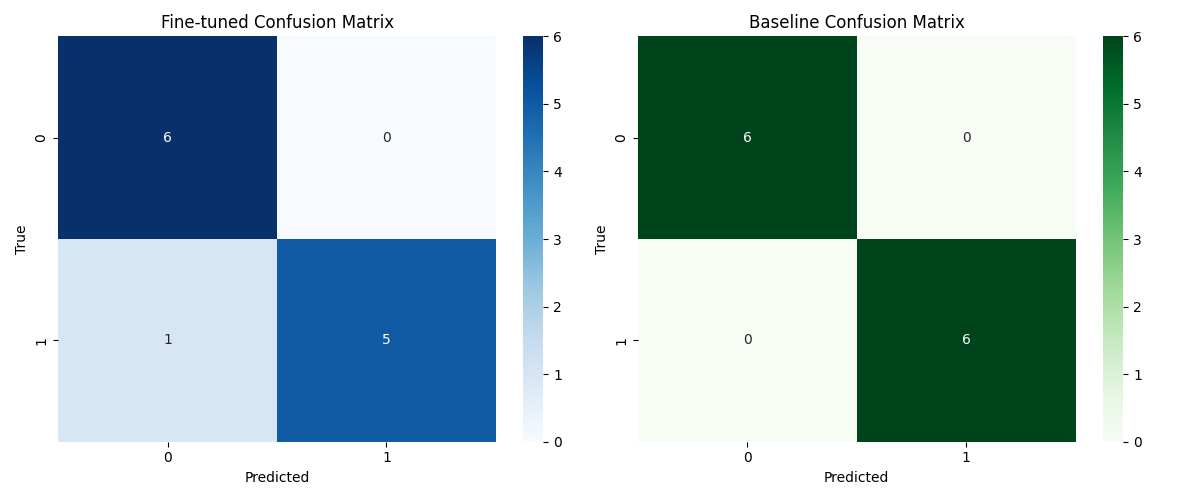
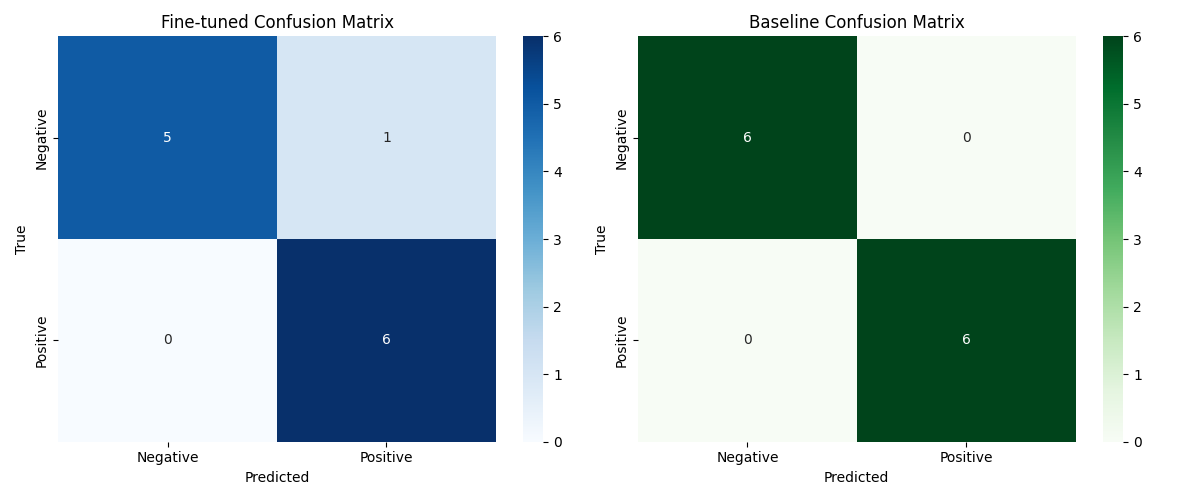
fix comments

diff --git a/model_artifacts.py b/model_artifacts.py
@@ -25,16 +25,19 @@ def is_lfs_pointer(path):
     return header == LFS_POINTER_PREFIX
 
 
-def _weights_path():
-    if WEIGHTS_FILE.is_file():
-        return WEIGHTS_FILE
-    if PYTORCH_WEIGHTS_FILE.is_file():
-        return PYTORCH_WEIGHTS_FILE
+def _weights_path(model_dir=None):
+    model_dir = Path(model_dir) if model_dir is not None else FINE_TUNED_MODEL_DIR
+    safetensors = model_dir / "model.safetensors"
+    pytorch_bin = model_dir / "pytorch_model.bin"
+    if safetensors.is_file():
+        return safetensors
+    if pytorch_bin.is_file():
+        return pytorch_bin
     return None
 
 
-def has_valid_weights():
-    path = _weights_path()
+def has_valid_weights(model_dir=None):
+    path = _weights_path(model_dir)
     if path is None:
         return False
     if is_lfs_pointer(path):
@@ -42,10 +45,11 @@ def has_valid_weights():
     return path.stat().st_size >= MIN_WEIGHTS_BYTES
 
 
-def require_fine_tuned_model():
+def require_fine_tuned_model(model_dir=None):
     """Проверяет, что fine-tuned чекпоинт содержит веса модели."""
-    if not has_valid_weights():
-        path = _weights_path()
+    model_dir = Path(model_dir) if model_dir is not None else FINE_TUNED_MODEL_DIR
+    if not has_valid_weights(model_dir):
+        path = _weights_path(model_dir)
         if path is not None and is_lfs_pointer(path):
             reason = (
                 "обнаружен Git LFS pointer вместо весов. "
@@ -56,10 +60,10 @@ def require_fine_tuned_model():
 
         raise FileNotFoundError(
             f"Fine-tuned модель не готова к загрузке ({reason}).\n"
-            f"Ожидается model.safetensors или pytorch_model.bin в {FINE_TUNED_MODEL_DIR}.\n"
+            f"Ожидается model.safetensors или pytorch_model.bin в {model_dir}.\n"
             "Сначала обучите и сохраните модель: python day_5/fine_tuning.py"
         )
-    return FINE_TUNED_MODEL_DIR
+    return model_dir
 
 
 def has_baseline_artifacts():

diff --git a/day_6/inference_comparison.py b/day_6/inference_comparison.py
@@ -10,7 +10,7 @@ import matplotlib.pyplot as plt
 import seaborn as sns
 
 sys.path.insert(0, str(Path(__file__).resolve().parent.parent))
-from sentiment_data import load_sentiment_dataset
+from sentiment_data import load_sentiment_dataset, get_target_names
 from model_artifacts import (
     require_fine_tuned_model,
     require_baseline_artifacts,
@@ -136,6 +136,7 @@ def build_confusion_matrices(model_ft, tokenizer_ft, baseline_model, baseline_fe
 
     test_texts = test_df['text'].tolist()
     test_labels = test_df['label'].tolist()
+    target_names = get_target_names(test_labels)
 
     print("Получение предсказаний для тестового набора...")
     preds_ft_all = predict_fine_tuned(test_texts, model_ft, tokenizer_ft, device)
@@ -151,12 +152,18 @@ def build_confusion_matrices(model_ft, tokenizer_ft, baseline_model, baseline_fe
 
     fig, (ax1, ax2) = plt.subplots(1, 2, figsize=(12, 5))
 
-    sns.heatmap(cm_ft, annot=True, fmt='d', ax=ax1, cmap='Blues')
+    sns.heatmap(
+        cm_ft, annot=True, fmt='d', ax=ax1, cmap='Blues',
+        xticklabels=target_names, yticklabels=target_names,
+    )
     ax1.set_title('Fine-tuned Confusion Matrix')
     ax1.set_xlabel('Predicted')
     ax1.set_ylabel('True')
 
-    sns.heatmap(cm_baseline, annot=True, fmt='d', ax=ax2, cmap='Greens')
+    sns.heatmap(
+        cm_baseline, annot=True, fmt='d', ax=ax2, cmap='Greens',
+        xticklabels=target_names, yticklabels=target_names,
+    )
     ax2.set_title('Baseline Confusion Matrix')
     ax2.set_xlabel('Predicted')
     ax2.set_ylabel('True')
@@ -171,9 +178,9 @@ def build_confusion_matrices(model_ft, tokenizer_ft, baseline_model, baseline_fe
     acc_baseline = accuracy_score(test_labels, y_pred_baseline)
     f1_baseline = f1_score(test_labels, y_pred_baseline, average='macro')
 
-    report_ft = classification_report(test_labels, y_pred_ft, target_names=['Negative', 'Positive'])
+    report_ft = classification_report(test_labels, y_pred_ft, target_names=target_names)
     report_baseline = classification_report(
-        test_labels, y_pred_baseline, target_names=['Negative', 'Positive']
+        test_labels, y_pred_baseline, target_names=target_names
     )
 
     print(f"\nFine-tuned Accuracy: {acc_ft:.4f}")

diff --git a/day_5/fine_tuning.py b/day_5/fine_tuning.py
@@ -11,7 +11,7 @@ from sklearn.model_selection import train_test_split
 from sklearn.metrics import accuracy_score, f1_score
 
 sys.path.insert(0, str(Path(__file__).resolve().parent.parent))
-from sentiment_data import load_sentiment_dataset
+from sentiment_data import load_sentiment_dataset, get_num_labels, get_target_names
 from model_config import MODEL_NAME, MODEL_REVISION, RANDOM_SEED
 from model_artifacts import has_valid_weights, WEIGHTS_FILE
 
@@ -120,6 +120,10 @@ def run_fine_tuning(save_path=None, num_epochs=3):
     tokenizer = AutoTokenizer.from_pretrained(MODEL_NAME, revision=MODEL_REVISION)
     train_texts, val_texts, train_labels, val_labels = prepare_data()
 
+    all_labels = train_labels + val_labels
+    num_labels = get_num_labels(all_labels)
+    label_names = get_target_names(all_labels)
+
     train_dataset = TextDataset(train_texts, train_labels, tokenizer)
     val_dataset = TextDataset(val_texts, val_labels, tokenizer)
 
@@ -129,7 +133,7 @@ def run_fine_tuning(save_path=None, num_epochs=3):
     val_loader = DataLoader(val_dataset, batch_size=16)
 
     model = AutoModelForSequenceClassification.from_pretrained(
-        MODEL_NAME, num_labels=2, revision=MODEL_REVISION
+        MODEL_NAME, num_labels=num_labels, revision=MODEL_REVISION
     )
     model.to(device)
 
@@ -150,10 +154,13 @@ def run_fine_tuning(save_path=None, num_epochs=3):
     print("\nSaving model and metrics...")
     save_path.mkdir(parents=True, exist_ok=True)
 
+    model.config.id2label = {i: name for i, name in enumerate(label_names)}
+    model.config.label2id = {name: i for i, name in enumerate(label_names)}
+
     model.save_pretrained(save_path)
     tokenizer.save_pretrained(save_path)
 
-    if not has_valid_weights():
+    if not has_valid_weights(save_path):
         raise RuntimeError(
             f"Чекпоинт сохранён неполностью: отсутствует {WEIGHTS_FILE.name}. "
             f"Ожидается model.safetensors или pytorch_model.bin в {save_path}."
@@ -162,6 +169,7 @@ def run_fine_tuning(save_path=None, num_epochs=3):
     with open(RESULTS_PATH, 'w') as f:
         f.write(f'Model: {MODEL_NAME}\n')
         f.write(f'Revision: {MODEL_REVISION}\n')
+        f.write(f'Num labels: {num_labels}\n')
         f.write(f'Random seed: {RANDOM_SEED}\n')
         f.write(f'Final Validation F1: {val_f1:.4f}\n')
         f.write(f'Final Validation Accuracy: {val_acc:.4f}\n')

diff --git a/sentiment_data.py b/sentiment_data.py
@@ -6,6 +6,20 @@ import pandas as pd
 
 DATASET_PATH = Path(__file__).resolve().parent / "sentiment_dataset.csv"
 REQUIRED_COLUMNS = ("text", "label")
+DEFAULT_LABEL_NAMES = {0: "Negative", 1: "Positive", 2: "Neutral"}
+
+
+def get_num_labels(labels):
+    return len(set(labels))
+
+
+def get_target_names(labels):
+    classes = sorted(set(labels))
+    if classes != list(range(len(classes))):
+        raise ValueError(
+            f"Labels must be contiguous integers 0..{len(classes) - 1}, got {classes}"
+        )
+    return [DEFAULT_LABEL_NAMES.get(i, f"Class_{i}") for i in classes]
 
 
 def load_sentiment_dataset(path=None):